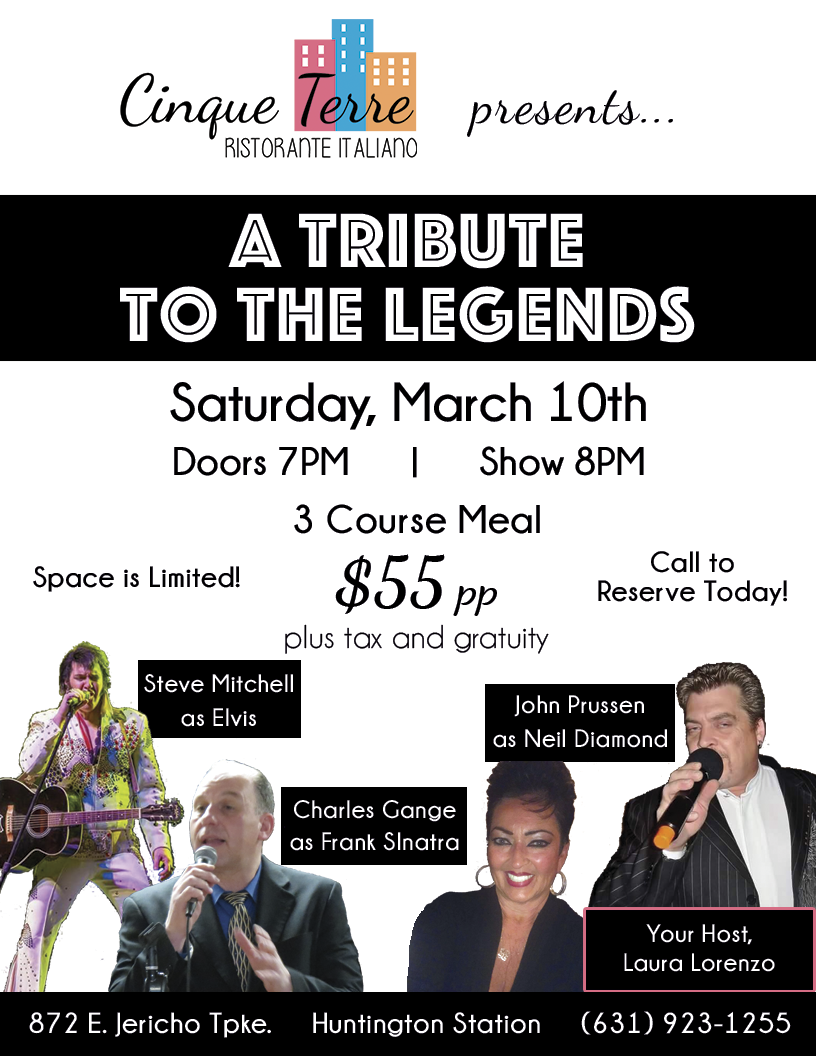
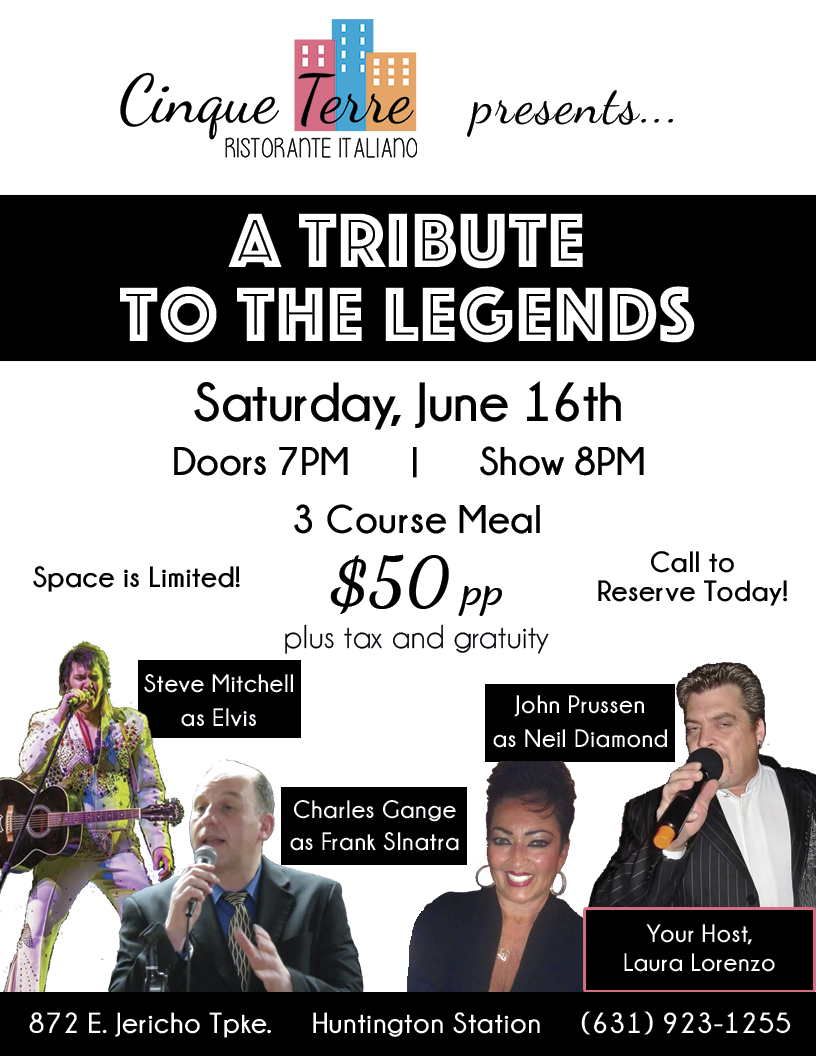
weee

Changed region(s): [[0.2145, 0.3438, 0.7966, 0.4062], [0.3983, 0.5312, 0.6127, 0.5938]]

diff --git a/upcoming-events.html b/upcoming-events.html
@@ -24,17 +24,17 @@ permalink: "upcoming-events.html"
 	</div>
 </div>
 
-<!--
+
 <div class="event-entry">
 	<div class="event-date">
-	SUN APR 15<br />
-	12PM
+	SAT JUN 16<br />
+	PM
 	</div>
 	<div class="event">
-	<img class="event-flyer" src="/images/psychicFlyer.png" id="legends">
+	<img class="event-flyer" src="/images/legendsflyer.png" id="legends">
 	</div>
 </div>
-
+<!--
 	<h3>Tickets <a href="https://www.paintnite.com/events/white-daisies-wine-glasses-at-cinque-terre-teamli_1172256" target="_blank">here</a>.</h3>
 	<h3>Get 20% off with coupon code LIPN20</h3> -->
 </div>
